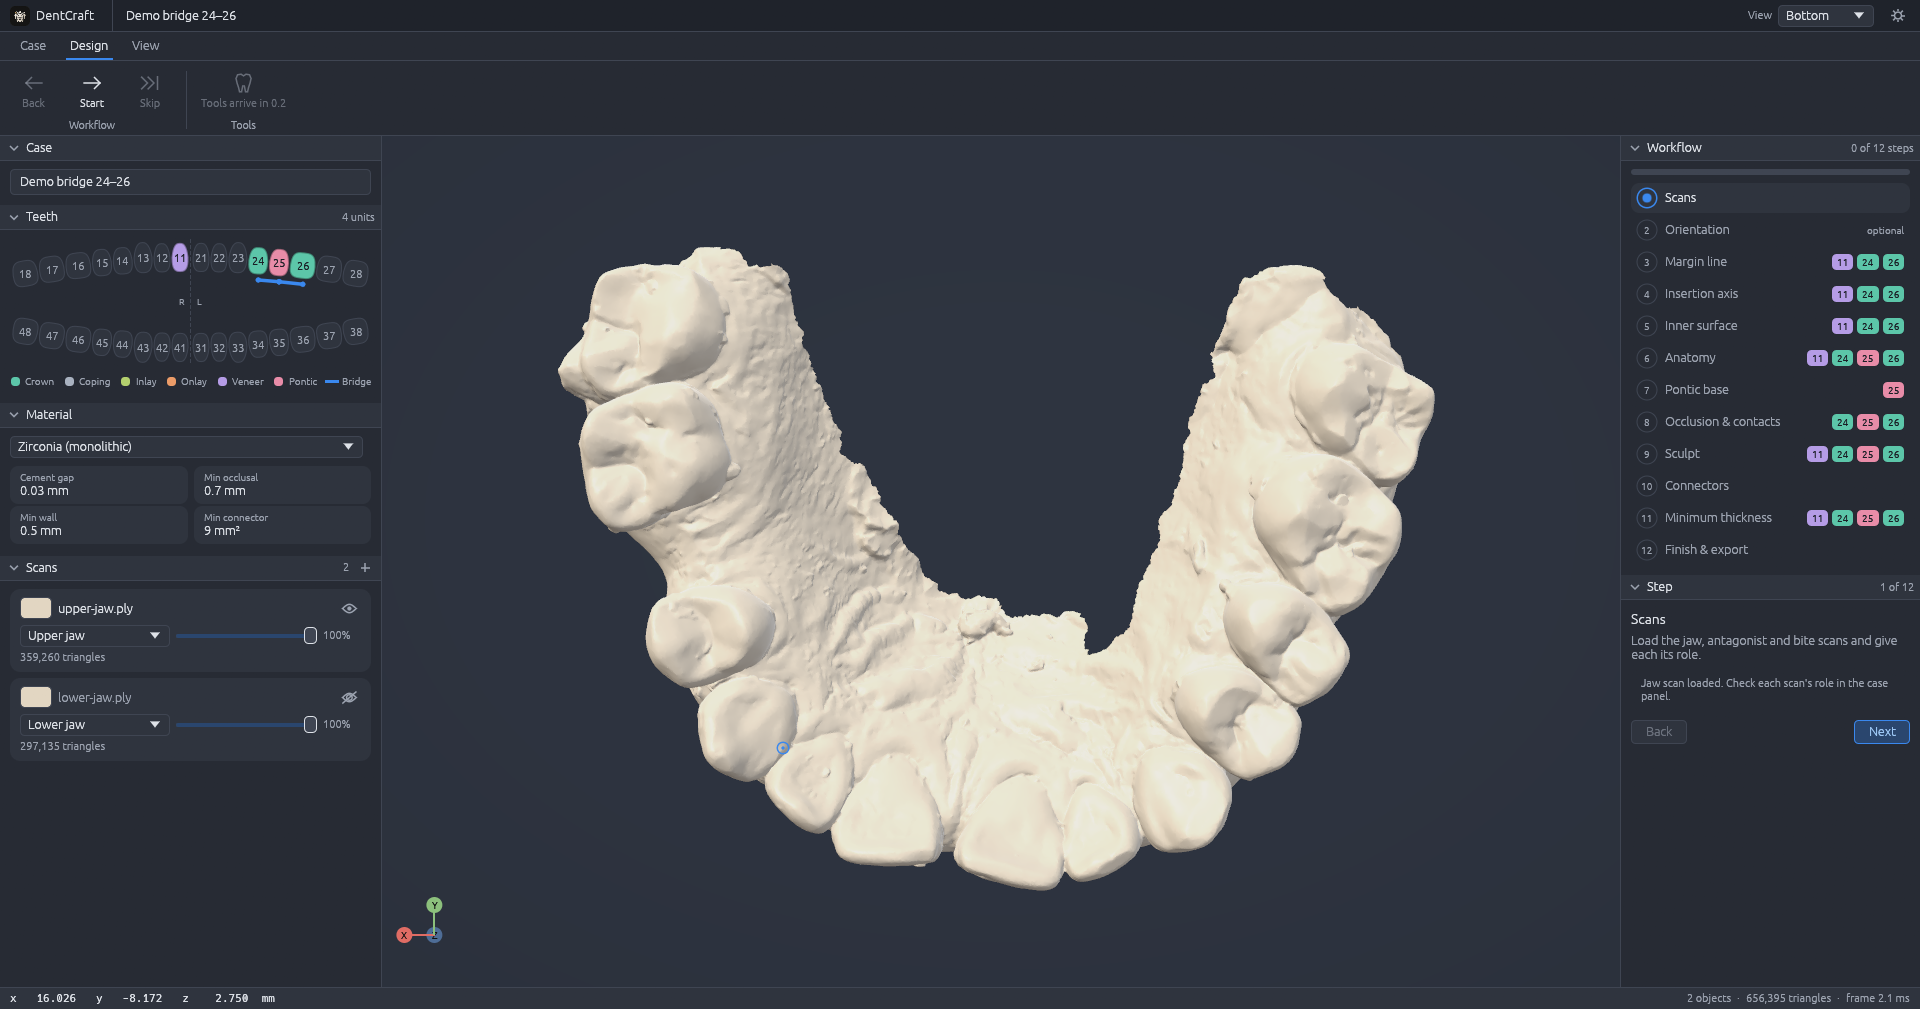
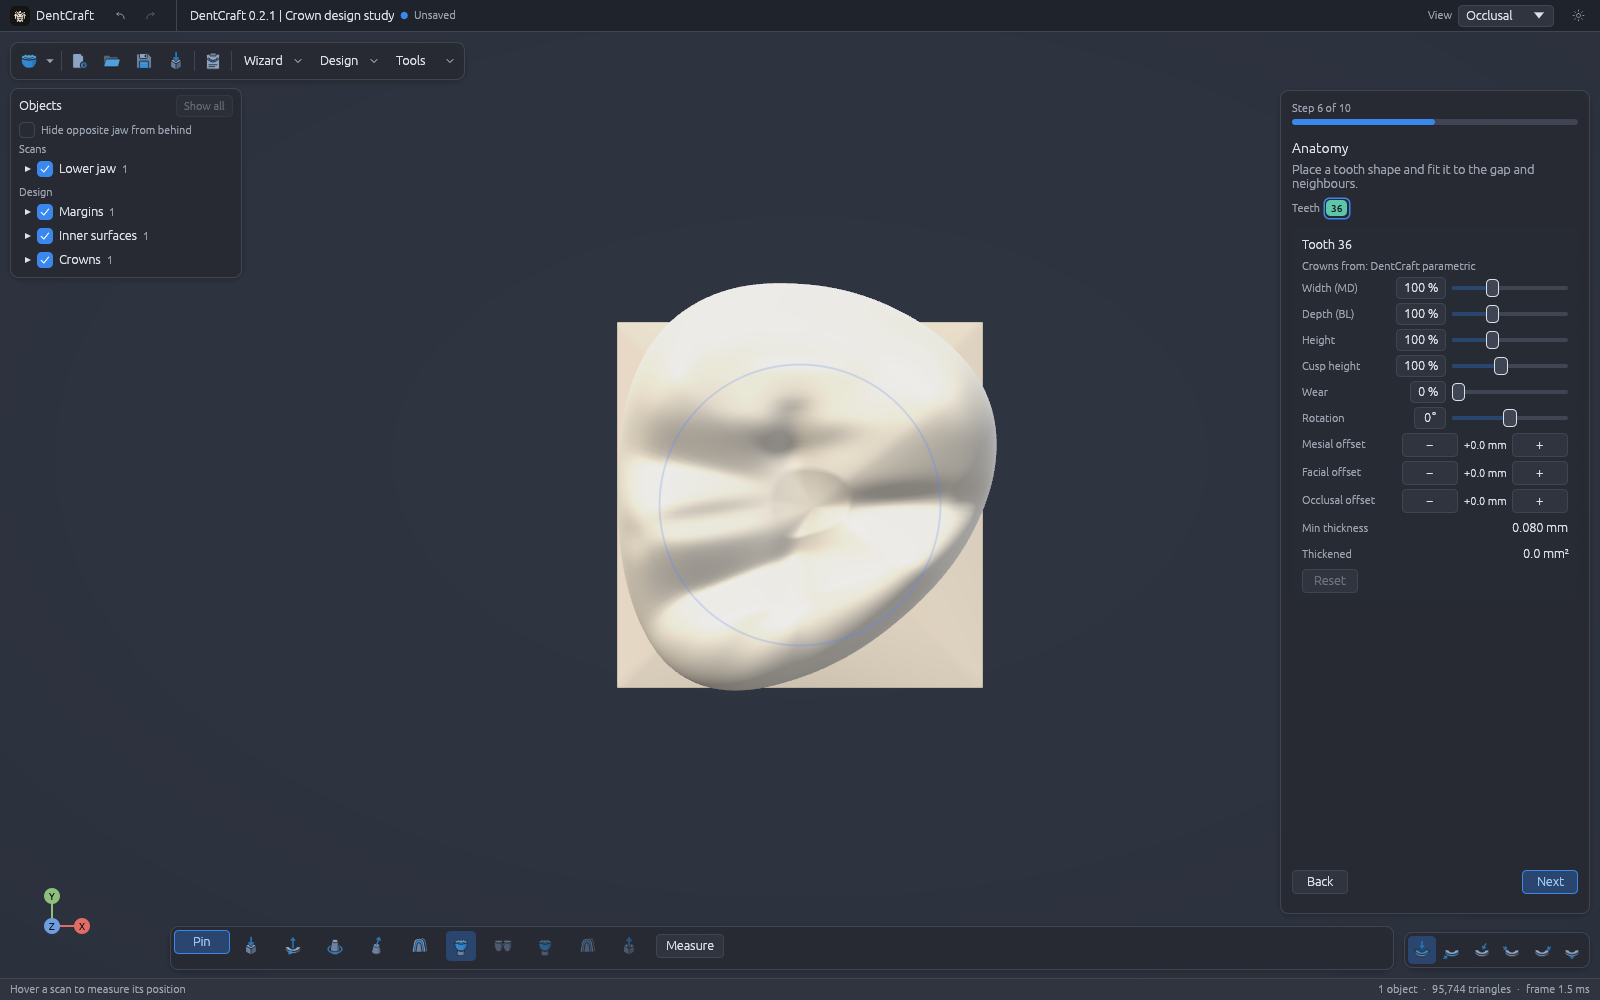
Prepare 0.2.1 release and refresh the project showcase

diff --git a/README.md b/README.md
@@ -8,28 +8,54 @@
   <img src="https://img.shields.io/badge/built%20with-Rust-cba360?style=flat&logo=rust&logoColor=white" alt="Built with Rust" />
   <img src="https://img.shields.io/badge/platforms-Windows%20%7C%20macOS%20%7C%20Linux-5f5a51?style=flat" alt="Windows, macOS and Linux" />
   <img src="https://img.shields.io/badge/status-early%20development-7d5c22?style=flat" alt="Status: early development" />
-  <a href="https://github.com/elnajar1/DentCraft/releases/latest"><img src="https://img.shields.io/github/v/release/elnajar1/DentCraft?include_prereleases&style=flat&color=3a88ee&label=download" alt="Download the latest release" /></a>
+  <a href="https://github.com/elnajar1/DentCraft/releases/tag/v0.2.1"><img src="https://img.shields.io/github/v/release/elnajar1/DentCraft?include_prereleases&style=flat&color=3a88ee&label=download" alt="Download DentCraft" /></a>
 </p>
 
 <p align="center">
-  <b>Design crowns, bridges, inlays, onlays and veneers on intraoral or model scans</b><br />
-  with the guided, step-by-step workflow dental technicians already know: cleaner, faster and more precise.
+  <b>Your anatomy. Your workflow. An open foundation.</b><br />
+  Open-source dental CAD with a focused crown-design workspace, your own tooth libraries,
+  and a guided path from preparation to STL.
 </p>
+
+<p align="center">
+  <a href="https://github.com/elnajar1/DentCraft/releases/tag/v0.2.1"><b>Download 0.2.1 for Windows</b></a> ·
+  <a href="CHANGELOG.md">What's new</a> · <a href="ROADMAP.md">Roadmap</a>
+</p>
+
+## Built around the crown
+
+**Keep the anatomy you chose.** Imported library teeth retain their millimetre scale instead of
+being stretched to textbook proportions. DentCraft seats the tooth, adapts the cervical region,
+and reports extra lift or a fallback so you can review the result.
+
+**Give the design room to breathe.** A floating wizard, compact toolbar and Objects panel put
+the model at the centre. Pin the Expert strip, select design parts, and apply settings across
+teeth with one undoable operation.
+
+**See what the geometry is doing.** Follow the margin, inspect the insertion axis, section the
+inner surface and review material thickness. Geometry uses double precision; automated tests
+include tilted, noisy preparations and true 3D distances inside triangles.
 
 ## Screenshots
 
 <p align="center">
-  <img src="docs/assets/screenshot-dark.png" alt="DentCraft in its default dark theme with an upper-jaw scan in occlusal view, the tooth chart of a 24–26 bridge and an 11 veneer, and the design workflow" width="100%" />
+  <img src="docs/assets/screenshot-dark.png" alt="DentCraft 0.2.1 crown design: floating Anatomy wizard, Objects panel and pinned Expert navigation" width="100%" />
 </p>
 
-<p align="center"><i>Anonymized intraoral scans in the default dark theme.</i></p>
+<p align="center"><i>The actual 0.2.1 workspace. All screenshots use a procedural preparation
+generated by DentCraft, with its built-in parametric anatomy. No patient data or external tooth library is shown.</i></p>
+
+<details>
+<summary>See the light workspace</summary>
+<img src="docs/assets/screenshot-light.png" alt="The same generated crown-design case in DentCraft's light theme" width="100%" />
+</details>
 
 ### Designing a crown, step by step
 
 | Margin line | Insertion axis and undercuts |
 |---|---|
 | <img src="docs/assets/workflow-margin.png" alt="Margin step: one click traces the margin on the finish line, with draggable control points" /> | <img src="docs/assets/workflow-axis.png" alt="Insertion axis step: the axis arrow with its handle and the undercut map in millimetres" /> |
-| **Inner surface (section view)** | **Crown from DentCraft's own tooth library** |
+| **Inner surface (section view)** | **Built-in parametric crown anatomy** |
 | <img src="docs/assets/workflow-inner.png" alt="Inner surface step in a section view: the cement gap over the die" /> | <img src="docs/assets/workflow-crown.png" alt="Anatomy step: a library molar fitted to the margin with the minimum material thickness" /> |
 
 <p align="center"><i>A synthetic preparation made by DentCraft's test generator. The crown is
@@ -53,23 +79,27 @@ exported as a closed STL: 0.08 mm at the margin, the material's minimum thicknes
 
 ## Why DentCraft
 
-Dental technicians spend their day in CAD software that is closed, tied to one operating system
-and priced for large labs. DentCraft is the open alternative, built by people who work in
-dentistry.
+From the first margin point to the exported crown, every design decision deserves a clear place
+in the workspace. DentCraft brings that process into an open, inspectable tool built by people
+who work in dentistry—and shaped by the technicians, clinicians and developers who use it.
 
 | | |
 |---|---|
-| 🦷 **The workflow you know** | One guided path per restoration: margin, insertion axis, cement gap, anatomy, contacts, thickness, export. Fewer clicks, clear feedback at every step. |
-| 🎯 **Precise by design** | Geometry in double precision, every algorithm tested on degenerate scans, design limits taken from the material you choose. |
-| 🛡 **Stable** | Written in memory-safe Rust. No crashes from a malformed file, no lost work. |
+| 🦷 **The workflow you know** | A guided crown-design path: margin, insertion axis, cement gap, anatomy, contacts, thickness and export. Focused tools with visible feedback. |
+| 🎯 **Precision you can inspect** | Double-precision geometry, regression tests for difficult inputs, and design limits taken from the material you choose. |
+| 🛡 **Recovery built in** | Memory-safe Rust, guarded background jobs, autosave and recovery prompts help protect the workflow. |
 | 💻 **Runs everywhere** | One codebase for Windows, macOS and Linux, plus a headless command line (browser build planned). |
-| ⚡ **Automation built in** | Scan segmentation, margin detection and anatomy proposals that run on your own machine, with no per-design credits (planned). |
+| ⚡ **Local design tools** | Margin detection, insertion-axis estimation and crown fitting run on your own machine. Broader automation is on the roadmap. |
 | 🌍 **Open and multilingual** | Free to use, study and improve under MIT OR Apache-2.0. Right-to-left languages, including Arabic, are on the roadmap. |
 
 ## The design workflow
 
 A case lists the teeth to restore and the restoration on each. DentCraft builds the plan from that:
 shared steps first, then the steps each restoration needs, tooth by tooth.
+
+**Single crowns are the supported end-to-end workflow in 0.2.1.** The table below describes the
+workflow model; it does not mean every restoration type is implemented. Bridges, pontics,
+copings, inlays, onlays and veneers remain on the [roadmap](ROADMAP.md).
 
 | # | Step | Crown | Coping | Inlay / Onlay | Veneer | Pontic |
 |---|---|:-:|:-:|:-:|:-:|:-:|
@@ -91,8 +121,9 @@ minimum thickness and connector size. Teeth use FDI notation (ISO 3950).
 
 ## Download
 
-**[DentCraft 0.2.0 for Windows](https://github.com/elnajar1/DentCraft/releases/latest)**: a single
-`.exe` with nothing to install. It designs a single crown from margin to STL; see the
+**[DentCraft 0.2.1 for Windows](https://github.com/elnajar1/DentCraft/releases/tag/v0.2.1)**: a single
+`.exe` with nothing to install. The prerelease includes a separate command-line executable and
+SHA-256 checksums. It designs a single crown from margin to STL; see the
 [changelog](CHANGELOG.md) for what's in it and its known limitations. macOS and Linux users build
 from source below.
 
@@ -160,9 +191,15 @@ vendor. Product names appear only to describe compatibility.
 
 ## بالعربي
 
-**DentCraft** برنامج مفتوح المصدر لتصميم التركيبات السنية (Dental CAD)، مكتوب بلغة Rust. بيمشي
-على نفس خطوات العمل اللي فنيين المعامل متعودين عليها، بس بشكل أنضف وأسهل وأدق. بيشتغل على Windows
-وmacOS وLinux، ومجاني للجميع.
+**تشريحك. أسلوب شغلك. وأساس مفتوح للتطوير.**
+
+**DentCraft** برنامج مفتوح المصدر لتصميم التركيبات السنية (Dental CAD)، مكتوب بلغة Rust.
+الإصدار **0.2.1** بيركّز على تصميم الكراون من التحضير لملف STL: واجهة أوسع للموديل، مكتبة أسنانك
+بمقياسها الأصلي، وتعديل موضعي عند العنق مع توضيح أي رفع إضافي أو استخدام للشكل البديل.
+تقدر تختار أجزاء التصميم وتطبّق الإعدادات على أكتر من سن مع التراجع عن العملية بخطوة واحدة.
+
+نسخة Windows جاهزة للتحميل، وmacOS وLinux متاحين بالبناء من المصدر. البرنامج مجاني للجميع؛
+الجسور وباقي أنواع التركيبات لسه ضمن خطة التطوير.
 
 صمّم البرنامج ويطوّره **د. محمود النجار**، بدعم من **[4K Dental Models](https://4kdental.com)**.
 

diff --git a/docs/assets/README.md b/docs/assets/README.md
@@ -1,0 +1,24 @@
+# Screenshot provenance
+
+The six application screenshots were refreshed for **DentCraft 0.2.1** on 2026-11-04.
+They show the real desktop application, without retouching its geometry or interface.
+
+The preparation is generated by
+`crates/dentcraft-design/examples/prepared_tooth_case.rs`; crown anatomy comes from
+DentCraft's built-in parametric library. No patient scans, proprietary sample cases,
+or external tooth libraries appear in these screenshots.
+
+To reproduce the scene, build the application and the `prepared_tooth_case` example,
+generate an STL and case outside `scratch/`, and open the case with:
+
+```text
+--margin 36@0,0,12 --tooth 36 --open expert-strip --size 1600x1000
+--step anatomy --view occlusal --theme dark --screenshot screenshot-dark.png
+```
+
+Clear `DENTCRAFT_TOOTH_LIBRARY` for this public demonstration. The light screenshot
+uses `--theme light`. The workflow panels use the `margin`, `axis`, `inner` and
+`anatomy` steps; axis, inner and anatomy detail views use `--view facial`, and the
+inner view adds `--section`.
+
+The banner, logo and sponsor artwork are separate branding assets, not application screenshots.

diff --git a/CHANGELOG.md b/CHANGELOG.md
@@ -3,7 +3,16 @@
 DentCraft is in early development. It is not a cleared or certified medical device: every design
 must be checked by a qualified dental professional before clinical use.
 
-## Unreleased
+## 0.2.1 — 2026-11-04
+
+**Your anatomy. Your workflow. An open foundation.**
+
+A focused update to crown design: preserve the scale of imported anatomy, work in a
+viewport-first workspace, and review explicit feedback when a fit needs adjustment.
+
+Windows desktop and command-line binaries are available. This is an early-development
+prerelease; single crowns remain the supported end-to-end restoration. Occlusion and
+contacts require review, and some library shapes or scan margins still need manual correction.
 
 ### Real scans
 

diff --git a/AGENTS.md b/AGENTS.md
@@ -94,7 +94,8 @@ opposite-jaw auto-hide, Case setup modal; the user's tooth library with set-up i
 parametric fallback; floating current-step wizard with fixed navigation, Expert reveal/pin strip
 and a scene context menu that respects workflow prerequisites; Expert object multi-selection with
 scoped actions, and undoable copying of step settings to other/selected teeth while preserving
-placement. 0.2.1 is not published: it waits for the owner's approval.
+placement; library dimensions preserved with rigid seating and local cervical adaptation.
+The owner approved publishing 0.2.1 on 2026-11-04. Future releases still require owner approval.
 
 Next, in order:
 
